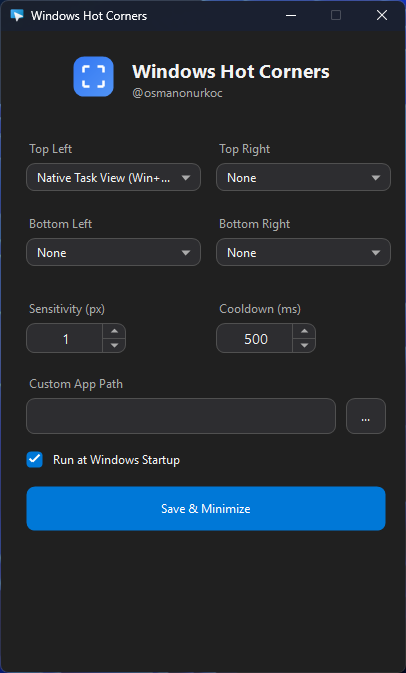
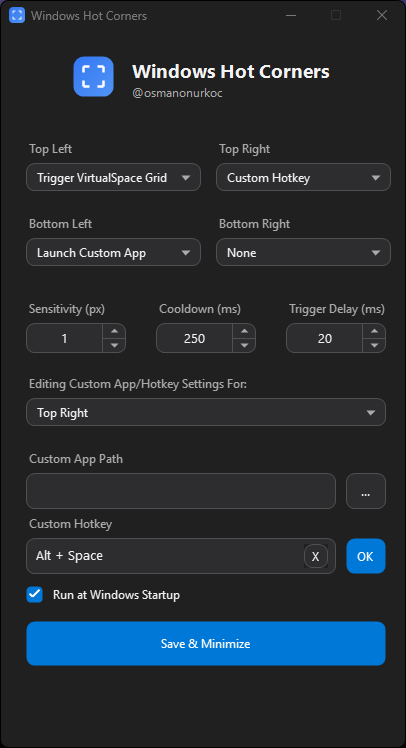
readme updated

diff --git a/readme.md b/readme.md
@@ -7,7 +7,7 @@ A lightweight, native C# application that brings the productivity of macOS/Linux
 
 ![License](https://img.shields.io/badge/license-MIT-blue.svg)
 ![Platform](https://img.shields.io/badge/platform-Windows-0078D4.svg)
-![Runtime](https://img.shields.io/badge/.NET-6.0%2B-512BD4.svg)
+![Runtime](https://img.shields.io/badge/.NET-10.0%2B-512BD4.svg)
 ![Downloads](https://img.shields.io/github/downloads/osmanonurkoc/HotCorners/total)
 ![Release](https://img.shields.io/github/v/release/osmanonurkoc/HotCorners)
 
@@ -25,20 +25,19 @@ This tool runs quietly in the system tray and monitors your mouse cursor positio
 
 * **🎨 Theme-Aware UI:** The settings window automatically detects and switches between Dark and Light modes based on your Windows personalization settings.
 * **⚡ Zero Latency:** Built with native Win32 APIs (`User32.dll`, `Dwmapi.dll`) for instant trigger response.
-* **🚀 Custom Actions:**
-  * **Task View (Win+Tab):** Overview of all open windows.
-  * **Show Desktop:** Instantly hide all windows.
-  * **Action Center:** Open notifications and quick settings.
-  * **Lock Screen:** Secure your PC immediately.
+* **🎯 Corner-Specific Configurations:** Set up completely independent custom apps or hotkeys for each of the four screen corners.
+* **🚀 Extensive Action Library:**
+  * **Window Management:** Task View (Win+Tab), Show Desktop, Minimize All Windows.
+  * **System Actions:** Lock Screen, Action Center, File Explorer, Task Manager, Start Menu, Start Screen Saver.
   * **Custom App Launcher:** Run any `.exe`, script, or command.
-* **⚙ Fine-Tuning:** Adjustable corner sensitivity (pixels) and cooldown timer (ms) to prevent accidental triggers.
+  * **Custom Hotkey Recorder:** Bind complex keyboard shortcuts or media keys (Play/Pause, Volume Control) natively using the built-in low-level keyboard hook.
+* **⚙ Fine-Tuning:** Adjustable corner sensitivity (pixels), trigger delay (ms), and cooldown timer (ms) to prevent accidental triggers.
 * **👻 Unobtrusive:** Minimizes to the System Tray and uses negligible system resources (< 10MB RAM).
 
 ## 🚀 Getting Started
 
 ### Prerequisites
 * **OS:** Windows 10 or Windows 11.
-* **Runtime:** [.NET Desktop Runtime 6.0](https://dotnet.microsoft.com/en-us/download/dotnet/6.0) or higher.
 
 ### Installation
 
@@ -53,12 +52,13 @@ This tool runs quietly in the system tray and monitors your mouse cursor positio
 The project is designed as a **Single-File Application** for easy portability.
 
 **Build Requirements:**
-* .NET SDK 6.0 or newer.
+* .NET SDK 10.0 or newer.
 
 **Build Command:**
 Use the provided `build_script.bat` or run:
 ```bash
 dotnet publish -c Release -r win-x64 --self-contained true -p:PublishSingleFile=true
+
 ```
 
 ## ⚙ Configuration
@@ -73,7 +73,7 @@ Configuration is stored in `%LocalAppData%\HotCornersApp\config.json`.
     
 -   `Native Task View` (Win+Tab)
     
--   `Launch Custom App`
+-   `Launch Custom App` (Independent per corner)
     
 -   `Show Desktop` (Win+D)
     
@@ -83,10 +83,20 @@ Configuration is stored in `%LocalAppData%\HotCornersApp\config.json`.
     
 -   `File Explorer` (Win+E)
     
+-   `Minimize All Windows` (Win+M)
+    
+-   `Start Menu` (Win)
+    
+-   `Start Screen Saver`
+    
+-   `Task Manager` (Ctrl+Shift+Esc)
+    
+-   `Custom Hotkey` (Independent per corner, supports modifiers & media keys)
+    
 
 ## ⚠ Disclaimer
 
-This tool simulates keyboard input (`keybd_event`). Ensure you do not have conflicting hotkey software running.
+This tool uses low-level keyboard hooks (`WH_KEYBOARD_LL`) for recording custom hotkeys and simulates keyboard input (`keybd_event`) to trigger actions. Ensure you do not have conflicting hotkey software running that might intercept these events.
 
 ## 📄 License
 
